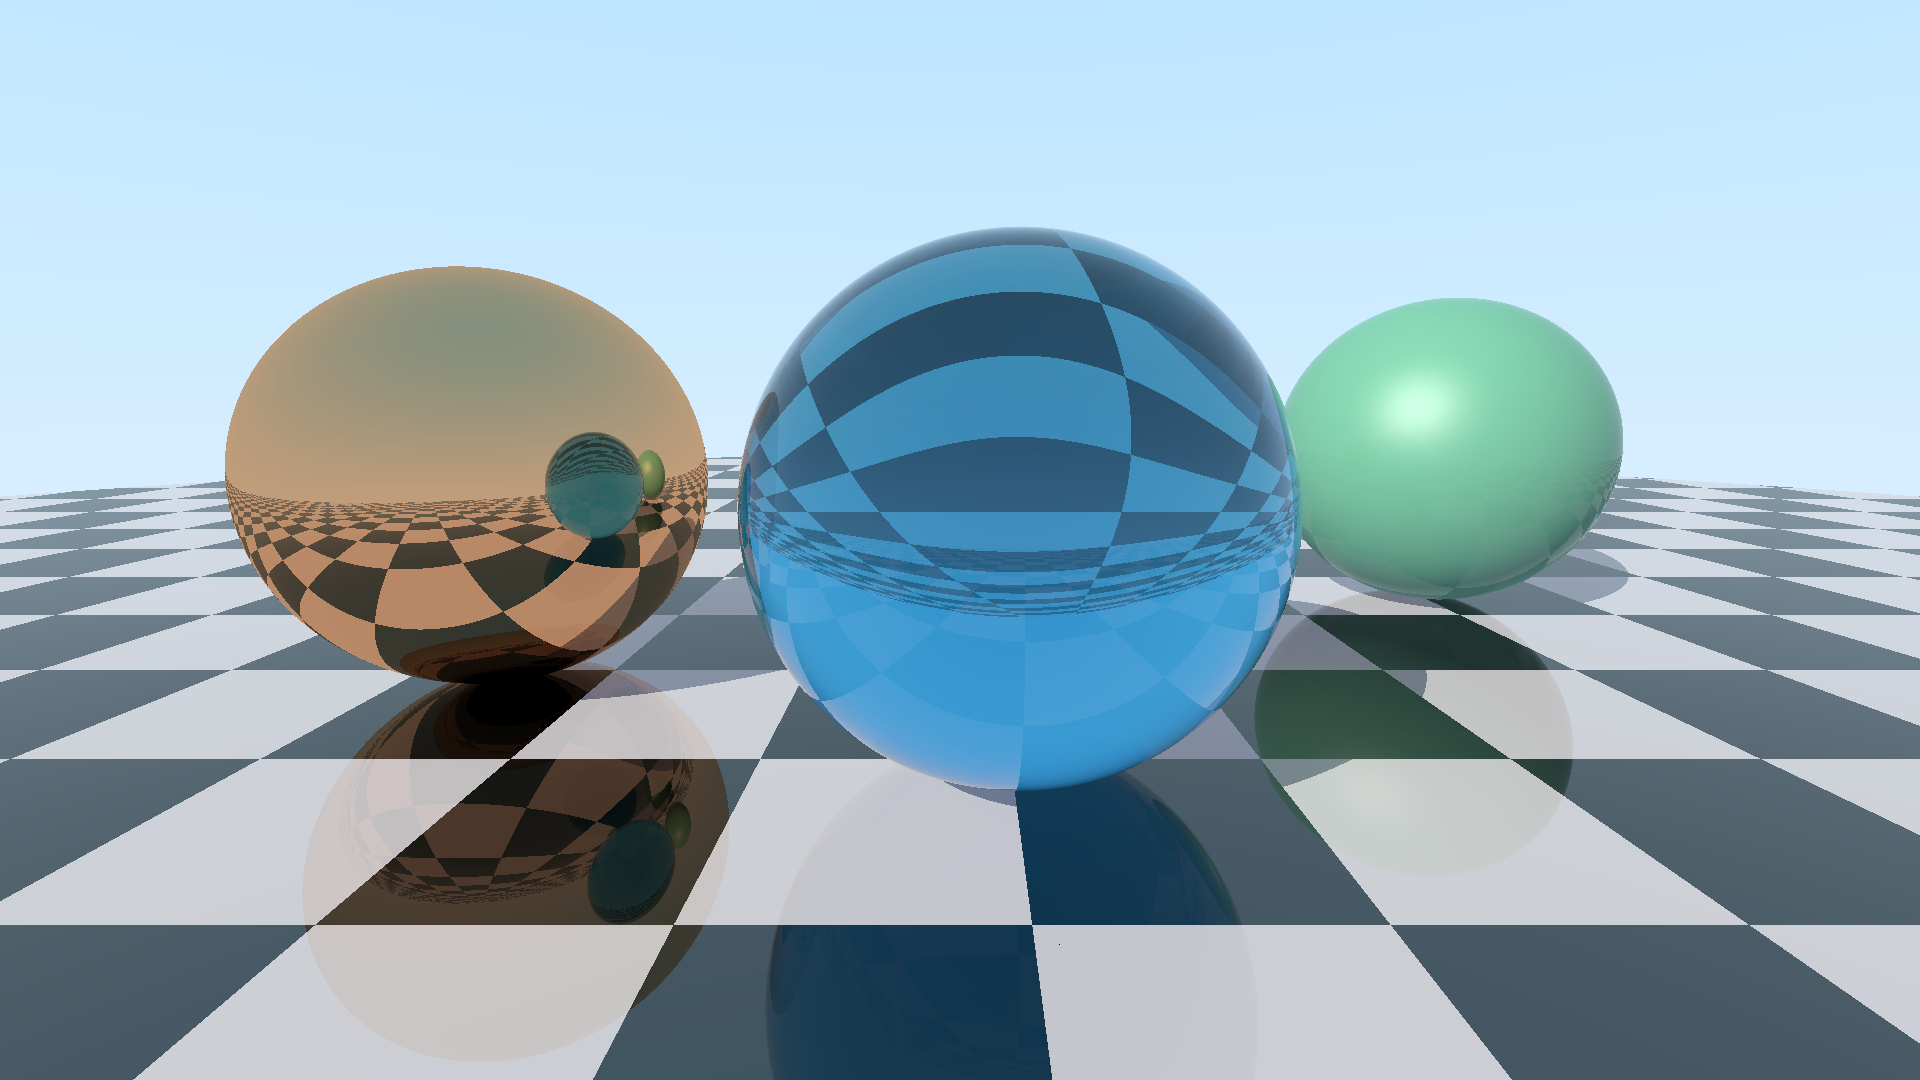
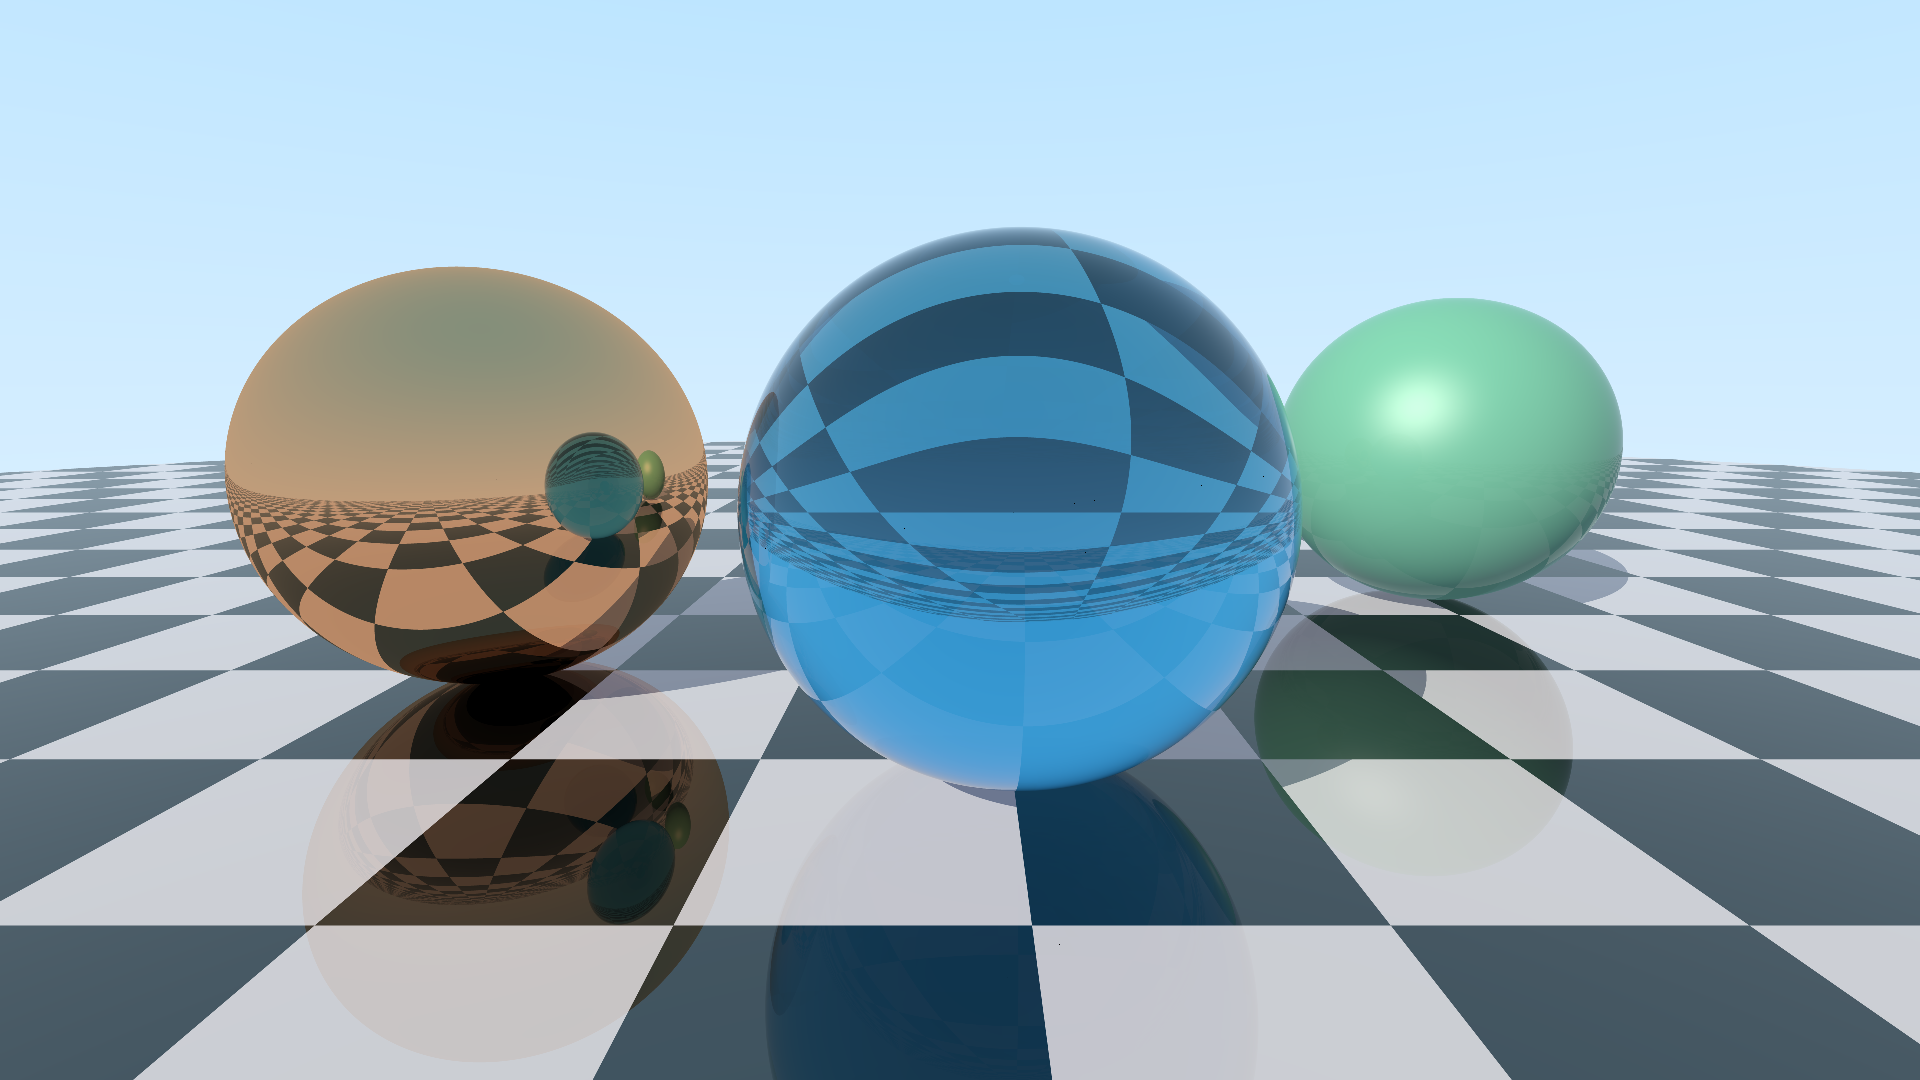
modified:   RayTrace.png 	modified:   RayTracer$1.class 	modified:   RayTracer.class 	modified:   RayTracer.java

diff --git a/projects/RayTracer.java b/projects/RayTracer.java
@@ -12,9 +12,11 @@ public class RayTracer {
     
     public static final int width = 1920;
     public static final int height = 1080;
-    public static final int alias = 1;
+    public static final int alias = 2;
     public static final float clipDist = 0.001f;
     public static final float maxBounce = 5;
+    public static final float gamma = 2.2f;
+    public static final float invgamma = 1.0f/gamma;
 
     public static float[] rotmat;
     public static float[] sundir;
@@ -247,7 +249,7 @@ public class RayTracer {
         int objectID = -1;
 
         float[] floor = floorIntersect(0.0f, ro, rd);
-        if (floor == null || Math.abs(floor[0]) > 16.0f) {
+        if (floor == null || Math.abs(floor[0]) > 20.0f) {
 
             floor = null;
         }
@@ -278,18 +280,21 @@ public class RayTracer {
             if (intersect == null) return WHITE;
             else return BLACK;
         }
-
+        
+        float[] color = BLACK;
+        float[] pos = null;
+        float[] nor = null;
+        if (intersect != null) {
+            pos = vadd(ro, vsmul(rd, intersect[0]));
+            nor = new float[] {intersect[1], intersect[2], intersect[3]};
+            color = BLACK;
+        }
         if (intersect == null) {
             float[] bottom = WHITE;
             float[] zenith = new float[] {0.3f, 0.7f, 1.0f};
-            return vmix(bottom, zenith, rd[1]/2.0f + 0.5f);
+            color = vmix(bottom, zenith, rd[1]/2.0f + 0.5f);
         }
-
-        float[] pos = vadd(ro, vsmul(rd, intersect[0]));
-        float[] nor = new float[] {intersect[1], intersect[2], intersect[3]};
-        float[] color = BLACK;
-
-        if (objectID == 0) {
+        else if (objectID == 0) {
             float[] objcol;
             if (((int)Math.floor(pos[0]) + (int)Math.floor(pos[2])) % 2 == 0) {
                 objcol = WHITE;
@@ -346,7 +351,7 @@ public class RayTracer {
         rd = vmatmultiply(rotmat, rd);
 
         float[] color = drawRay(ro, rd, 0, 0);
-        return vspow(color, 0.45f);
+        return vspow(color, invgamma);
     }
 
     static void drawImage(WritableRaster r) {
@@ -375,5 +380,6 @@ public class RayTracer {
         }
         r.setDataElements(0,0,width,height,pixels);
     }
+
 
 }
